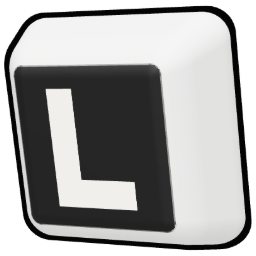
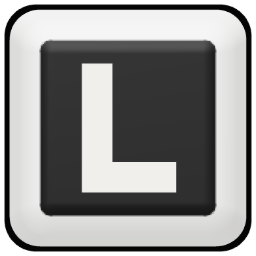
Straight-on keycaps in the rail (#211)
* Client portal at the dashboard's scale

Wider page (max-w-7xl, 380px side column), larger title, card titles,
steps, banners, details, contacts, PDF tile, pin switch and pin panel.

Claude-Session: https://claude.ai/code/session_01XHHjZcsFk6KcB3zBR7AfAW

* No glow around focused fields

Inputs, text areas, selects, input groups and the reply box show focus
with their border only; buttons keep a thin keyboard-focus line instead
of the soft halo, and invalid fields lose the red halo.

Claude-Session: https://claude.ai/code/session_01XHHjZcsFk6KcB3zBR7AfAW

* First steps for the client; the workshop gets the pin switch too

Before the first pin the client sees three small pictures (open the file,
tap where something is wrong, pick the number and write) and a button
that opens the file. The workshop's comments use the same switch of pins
by number with the picked comment and its conversation below; answering
several at once ticks numbers in the switch. The reply box wraps its
buttons under the text on phones.

Claude-Session: https://claude.ai/code/session_01XHHjZcsFk6KcB3zBR7AfAW

* Dashboard at the same scale as the client portal

Every text size on the dashboard's home (greeting, Your move, Waiting on
clients, Coming up, Client activity, stats, Getting started) goes up one
step; cards get more room and larger titles everywhere; dashboard, orders
and order pages use the wider max-w-7xl page like the portal.
[…]

diff --git a/src/components/dashboard/Sidebar.tsx b/src/components/dashboard/Sidebar.tsx
@@ -14,7 +14,7 @@ import { TemplatesDialog } from "@/components/projects/TemplatesDialog"
 import type { CanvasTemplate, PostTemplate } from "@/components/projects/templates"
 import { can } from "@/lib/plans"
 import { supabase } from "@/lib/supabase"
-import { LinkMark, Logo, LogoMark } from "@/components/Logo"
+import { FlatLogoMark, LinkMark, Logo } from "@/components/Logo"
 import { setTheme, useTheme } from "@/lib/theme"
 import { cn } from "@/lib/utils"
 import { Avatar, AvatarFallback, AvatarImage } from "@/components/ui/avatar"
@@ -378,14 +378,14 @@ function AppSwitcher({ linkMode, beta, onSoon }: { linkMode: boolean; beta: bool
   }, [open])
   const go = (href: string | null) => { setOpen(false); if (href) router.push(href); else onSoon() }
   const sides = [
-    { id: "projects", on: !linkMode, href: "/dashboard", label: "Nodly", mark: <LogoMark className="size-9" /> },
+    { id: "projects", on: !linkMode, href: "/dashboard", label: "Nodly", mark: <FlatLogoMark className="size-9" /> },
     { id: "link", on: linkMode, href: beta ? "/link" : null, label: beta ? t("My page") : `${t("My page")} · ${t("soon")}`, mark: <LinkMark className="size-9" /> },
   ]
   return (
     <div ref={ref} className="relative mb-5">
       <button type="button" onClick={() => setOpen((v) => !v)} aria-label={linkMode ? t("My page") : "Nodly"} aria-haspopup="menu" aria-expanded={open}
         className={cn("flex size-12 items-center justify-center rounded-2xl transition-colors hover:bg-hover", open && "bg-hover")}>
-        {linkMode ? <LinkMark className="size-9" /> : <LogoMark className="size-9" />}
+        {linkMode ? <LinkMark className="size-9" /> : <FlatLogoMark className="size-9" />}
       </button>
       {open && (
         <div role="menu" className="absolute top-[calc(100%+8px)] left-1/2 z-40 flex -translate-x-1/2 flex-col gap-1 rounded-2xl bg-popover p-1.5 shadow-lg ring-1 ring-border animate-in fade-in slide-in-from-top-1 duration-150">

diff --git a/src/components/Logo.tsx b/src/components/Logo.tsx
@@ -20,16 +20,26 @@ export function LogoMark({ className, surface = "auto" }: { className?: string; 
   )
 }
 
-/** My page's mark: the same keycap as Nodly's, an L (for Link) in place of the N. */
+/** Nodly's keycap seen straight on, for the app's rail (beside My page's mark). */
+export function FlatLogoMark({ className }: { className?: string }) {
+  return <KeyPair light="/brand/nodly-key-flat-light.png" dark="/brand/nodly-key-flat-dark.png" className={className} />
+}
+
+/** My page's mark: the same keycap seen straight on, an L (for Link) in place of the N. */
 export function LinkMark({ className }: { className?: string }) {
+  return <KeyPair light="/brand/link-key-light.png" dark="/brand/link-key-dark.png" className={className} />
+}
+
+/** A keycap image in its light-page and dark-page versions. */
+function KeyPair({ light, dark, className }: { light: string; dark: string; className?: string }) {
   const img = (src: string, extra?: string) => (
     // eslint-disable-next-line @next/next/no-img-element -- tiny static PNG, no optimisation needed
     <img src={src} alt="" aria-hidden="true" draggable={false} className={cn("size-7 shrink-0 select-none object-contain", extra, className)} />
   )
   return (
     <>
-      {img("/brand/link-key-light.png", "dark:hidden")}
-      {img("/brand/link-key-dark.png", "hidden dark:block")}
+      {img(light, "dark:hidden")}
+      {img(dark, "hidden dark:block")}
     </>
   )
 }
